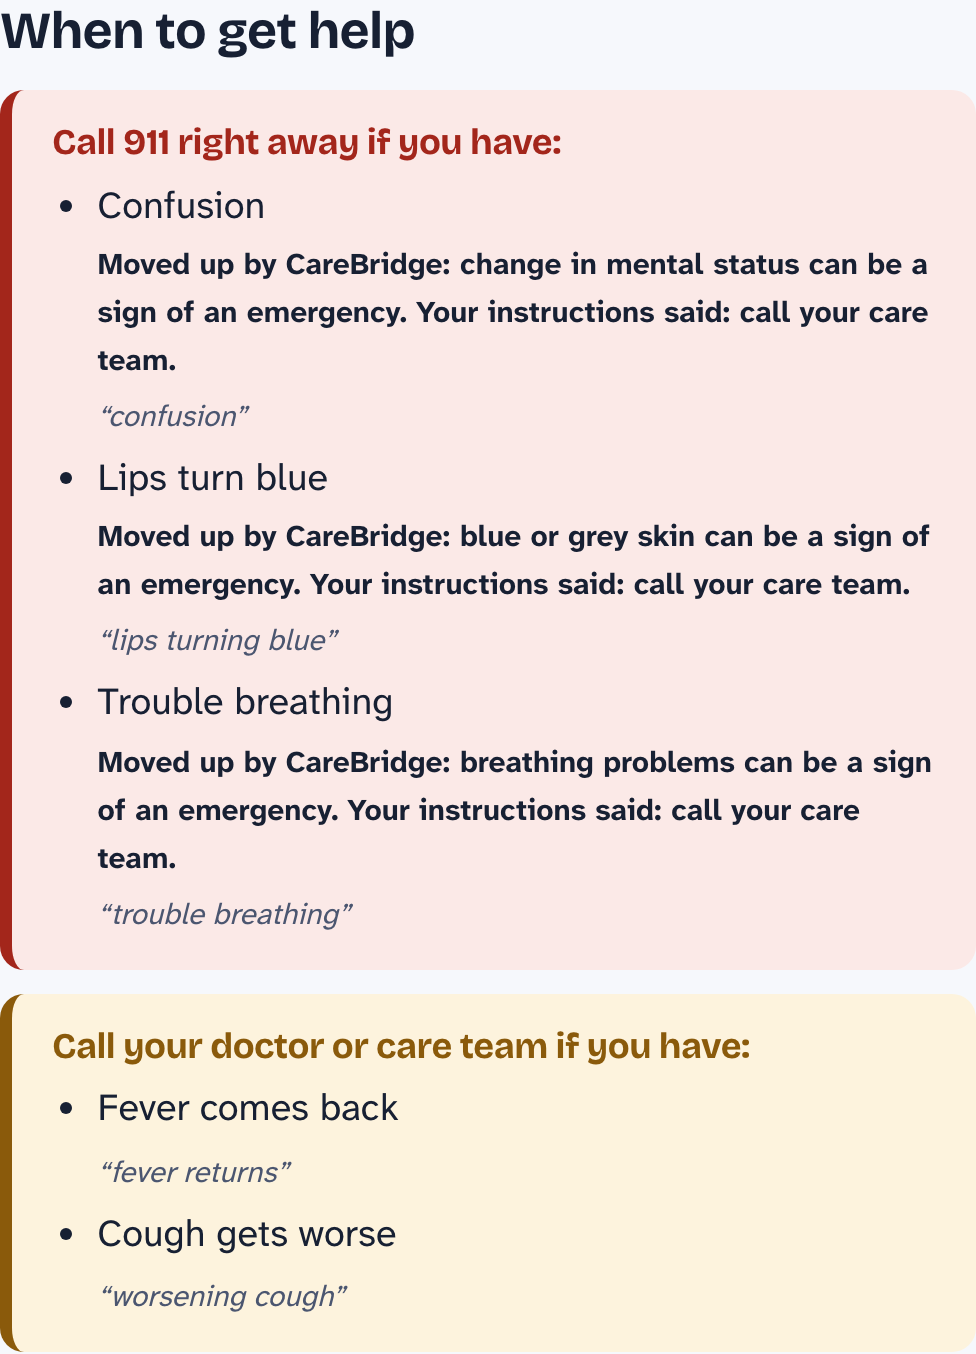
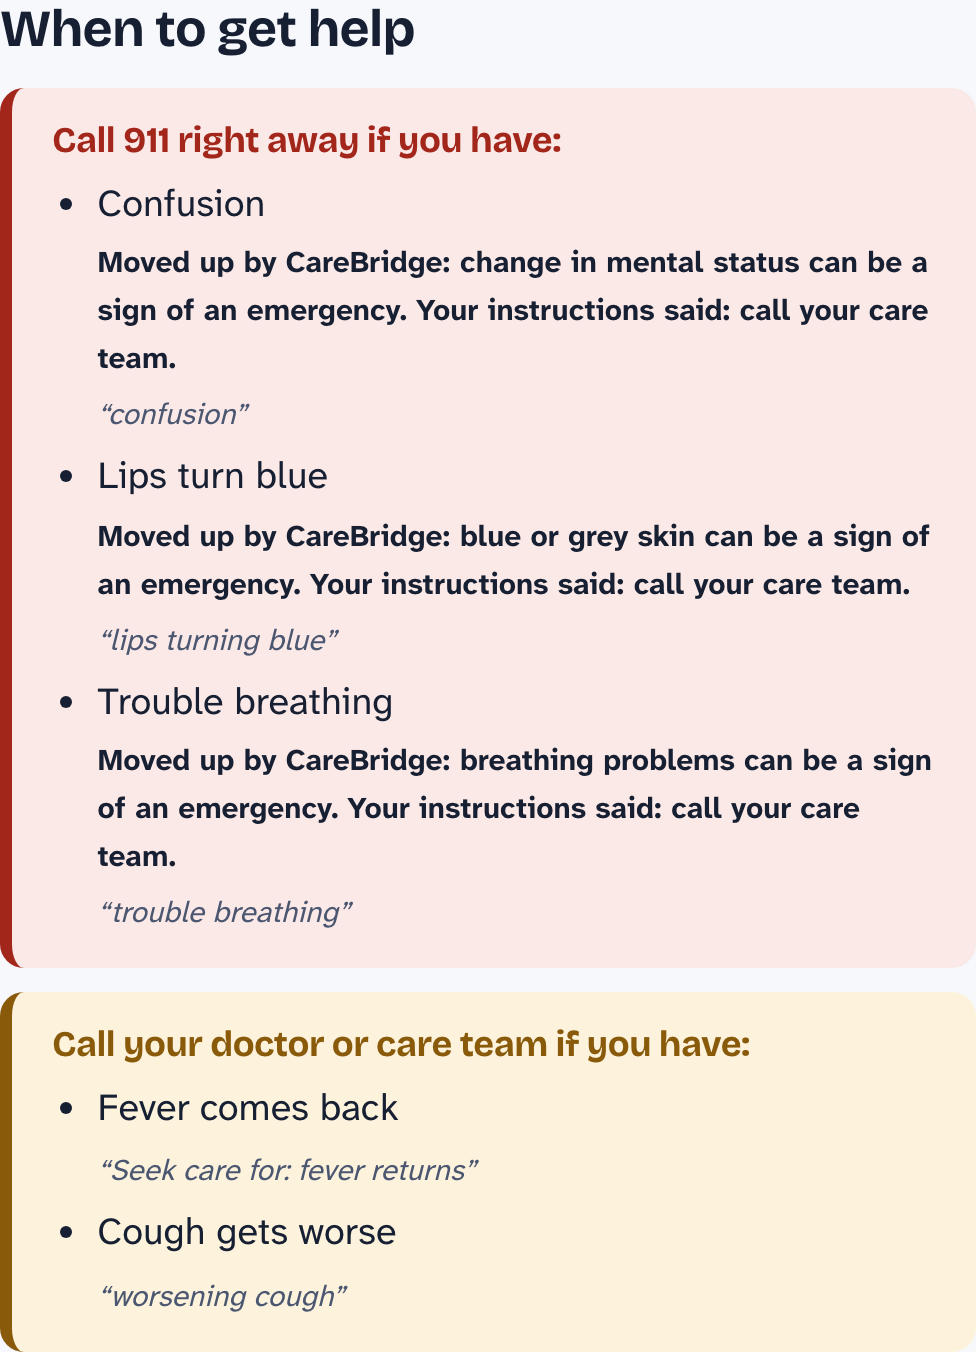
CareBridge case study: summary and reason are now grounded (#15)
Update the screenshots from the new version, move the grounding gap
from Limits into What testing changed, and say that the reason for the
stay and the key points carry quotes too.

diff --git a/lib/carebridge.js b/lib/carebridge.js
@@ -51,7 +51,7 @@ export const carebridge = {
       heading: "How it stays safe",
       body: ["The AI extracts; it never advises. Five rules, all enforced in code:"],
       bullets: [
-        "Every item must quote the instructions. Each medicine, appointment and warning sign comes with a word-for-word quote, and code drops anything whose quote isn't really there. The plan can't contain something the care team didn't write.",
+        "Every item must quote the instructions. Each medicine, appointment, warning sign and key point, and even the line saying why the patient was in hospital, comes with a word-for-word quote, and code drops anything whose quote isn't really there. The plan can't contain something the care team didn't write.",
         "No guessed purposes. If the paperwork doesn't say what a medicine is for, the plan doesn't either.",
         "Code reads what to do about each warning sign (“CALL 911 IF”, “Return to the ER”) from the text around it. The model's own label is only a fallback.",
         "Emergency signs always escalate. Fixed rules based on the American College of Emergency Physicians' warning signs (via MedlinePlus) raise signs like blue lips or trouble breathing to “Call 911”, even when the paperwork just says “seek care”. Rules only ever raise urgency, and the plan says why.",
@@ -78,6 +78,7 @@ export const carebridge = {
         "The model labeled “dizziness” as call 911 when the paperwork said call your doctor. That's why code, not the model, now reads the instructed action.",
         "The quote check was too strict at first and dropped four warning signs from a pneumonia plan. Losing a warning sign is the worst failure for this app, so the check now accepts quotes whose parts all appear in the text, while still rejecting invented ones.",
         "The Arabic translation wrote “1 to 2 weeks” in words. The number check kept that line in English, exactly as designed, and a sharper instruction fixed the cause.",
+        "Taking screenshots for this page showed the one free-text summary adding an explanation the paperwork didn't contain (“the germs reached your lungs”). The summary became quoted key points, and the reason for the stay now has to quote where the instructions name the condition.",
         "On the live demo, a faked network header got past the usage limit. Visitors are now identified by an address Cloudflare sets itself, and the bypass was re-tested and closed.",
       ],
       images: ["spanish"],
@@ -86,7 +87,6 @@ export const carebridge = {
       heading: "Limits and what's next",
       bullets: [
         "The emergency rules match words, so an unusual phrasing (“his lips look a funny color”) could slip past them. The sign still shows at the level the instructions gave it.",
-        "Two lines aren't checked against quotes: why the patient was in hospital and the short summary. They can add general explanation the paperwork didn't contain (“the germs reached your lungs”). Grounding those too is next.",
         "The plan lives on one device, by design, so it doesn't follow the patient to another phone.",
         "AI translation isn't a medical interpreter, and the app says so.",
         "It hasn't been reviewed by clinicians or tested with patients. Those come before anything beyond a demo, along with reading a photo of the paperwork.",
@@ -98,9 +98,9 @@ export const carebridge = {
 // Screenshots of the app with a fictional patient, captured with Playwright.
 export const carebridgeImages = {
   paste: img("01-paste.png", 976, 1198, "Instructions pasted from a fictional pneumonia patient, ready to turn into a plan"),
-  plan: img("02-plan.png", 976, 926, "The top of the plan: why the patient was in hospital and the most important things to do"),
-  warnings: img("03-warnings.png", 976, 1354, "Warning signs grouped by urgency, with confusion, blue lips and trouble breathing moved up to Call 911 and the reason shown"),
-  medicines: img("04-medicines.png", 976, 760, "Medicines with plain-language schedules"),
+  plan: img("02-plan.png", 976, 964, "The top of the plan: the condition the instructions name, and the most important things to do, each with its own quote"),
+  warnings: img("03-warnings.png", 976, 1352, "Warning signs grouped by urgency, with confusion, blue lips and trouble breathing moved up to Call 911 and the reason shown"),
+  medicines: img("04-medicines.png", 976, 830, "Medicines with plain-language schedules"),
   checkin: img("05-checkin.png", 976, 308, "A daily check-in reporting blue lips, answered with Call 911 now"),
-  spanish: img("06-spanish.png", 976, 986, "The same plan in Spanish: every heading and button is translated too"),
+  spanish: img("06-spanish.png", 976, 1022, "The same plan in Spanish: every heading and button is translated too"),
 };
